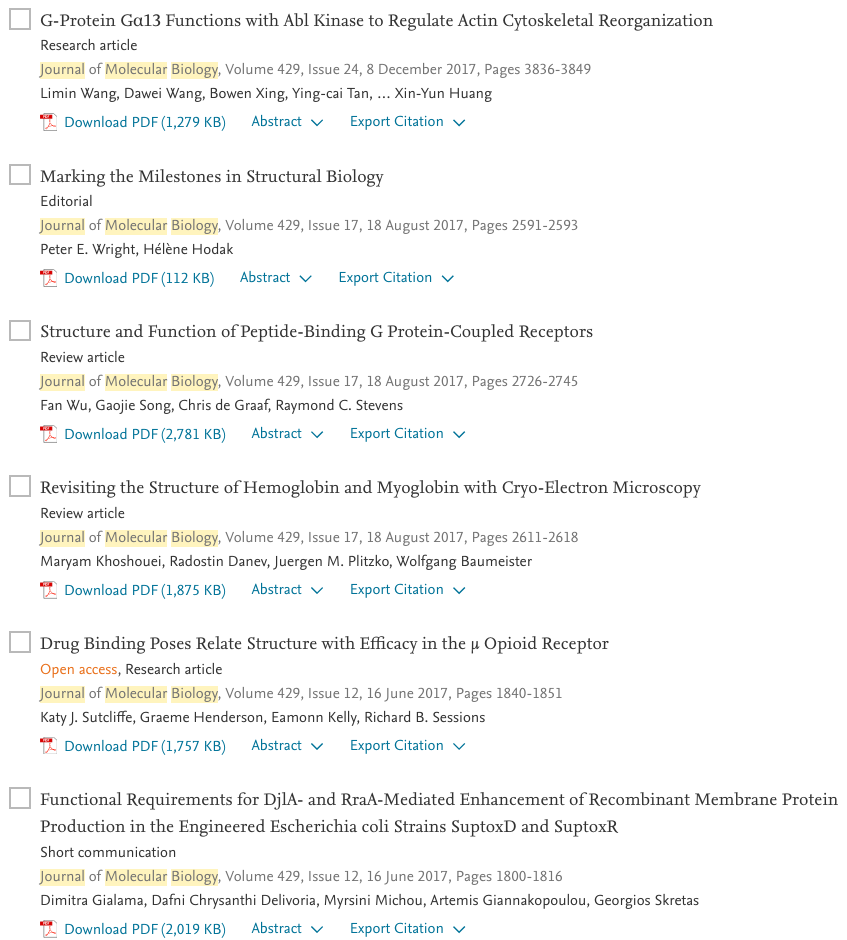
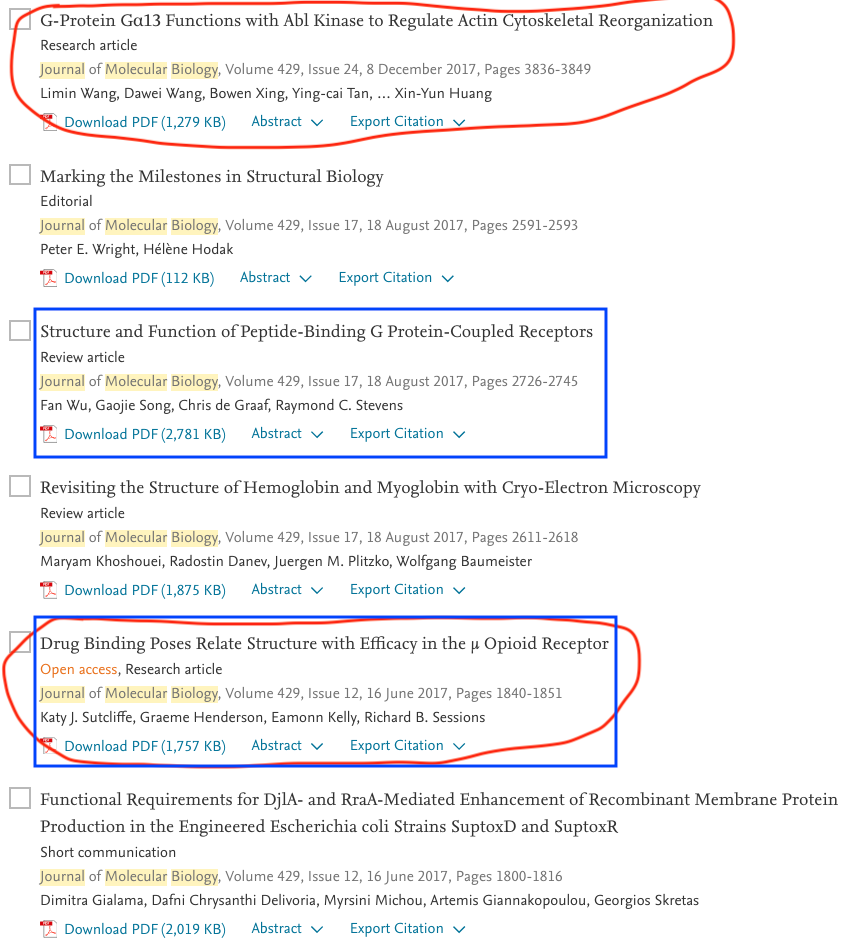
more content

diff --git a/26_01_2018.html b/26_01_2018.html
@@ -45,20 +45,34 @@ img[alt=drawing] { width: 500px; }
 class: center, middle
 
 # GPCR Journal Club January 26, 2018
-Mauricio
+## Mauricio
 
 ---
+class: split-30
+.column[
 **JMB -- 11**  
-**2017**
+**2017**  
+*Peter E. Wright (chief)*  
+*IF = 4.333*  
+Mainly reviews, only 3 research.  
+3 in total interesting to me, the ones in blue boxes.  
+]
+.column[
 .center[![drawing](images/jmb1.png)]
+]
 
 ---
 
 .center[![drawing](images/jmb2.png)]
 
 ---
+class: split-30
+.column[
 **Cell -- 148**  
-**2017-2018**
+**2017-2018**  
+*Emilie Marcus?*  
+moving to UCLA  
+]
 .center[![drawing](images/cell1.png)]
 
 
